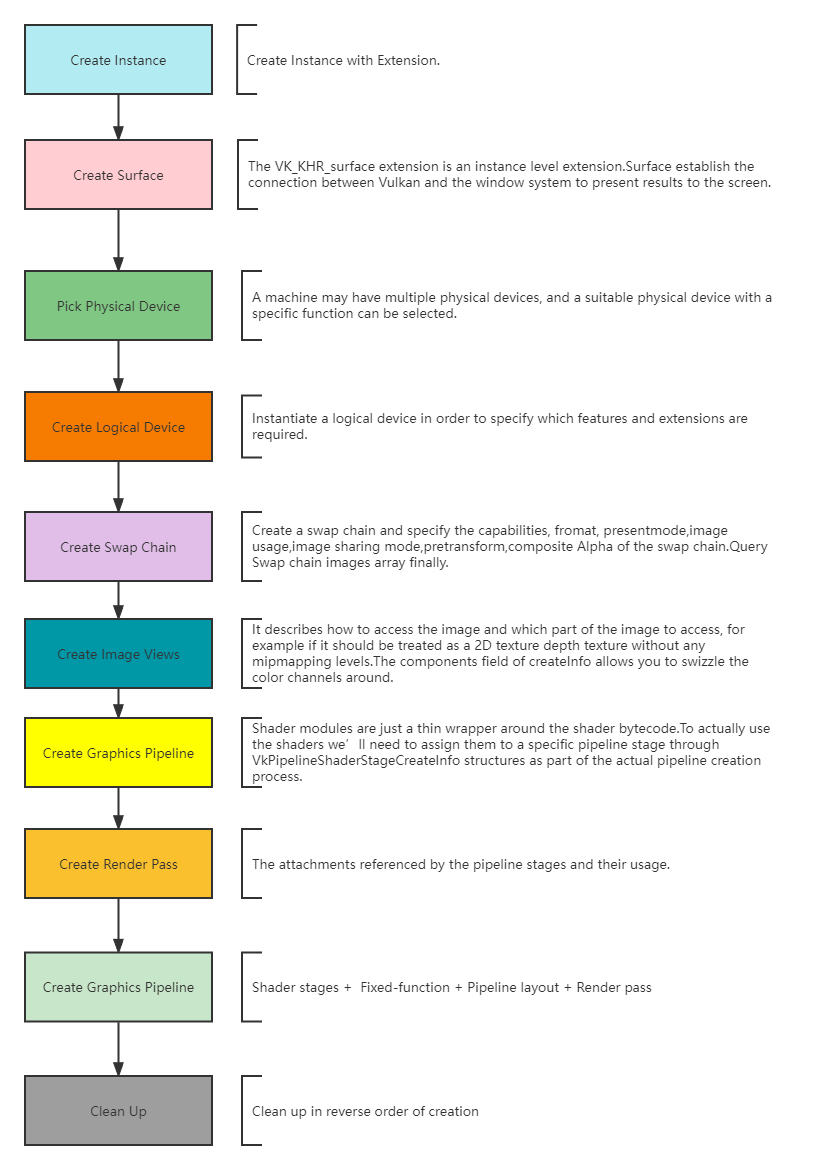
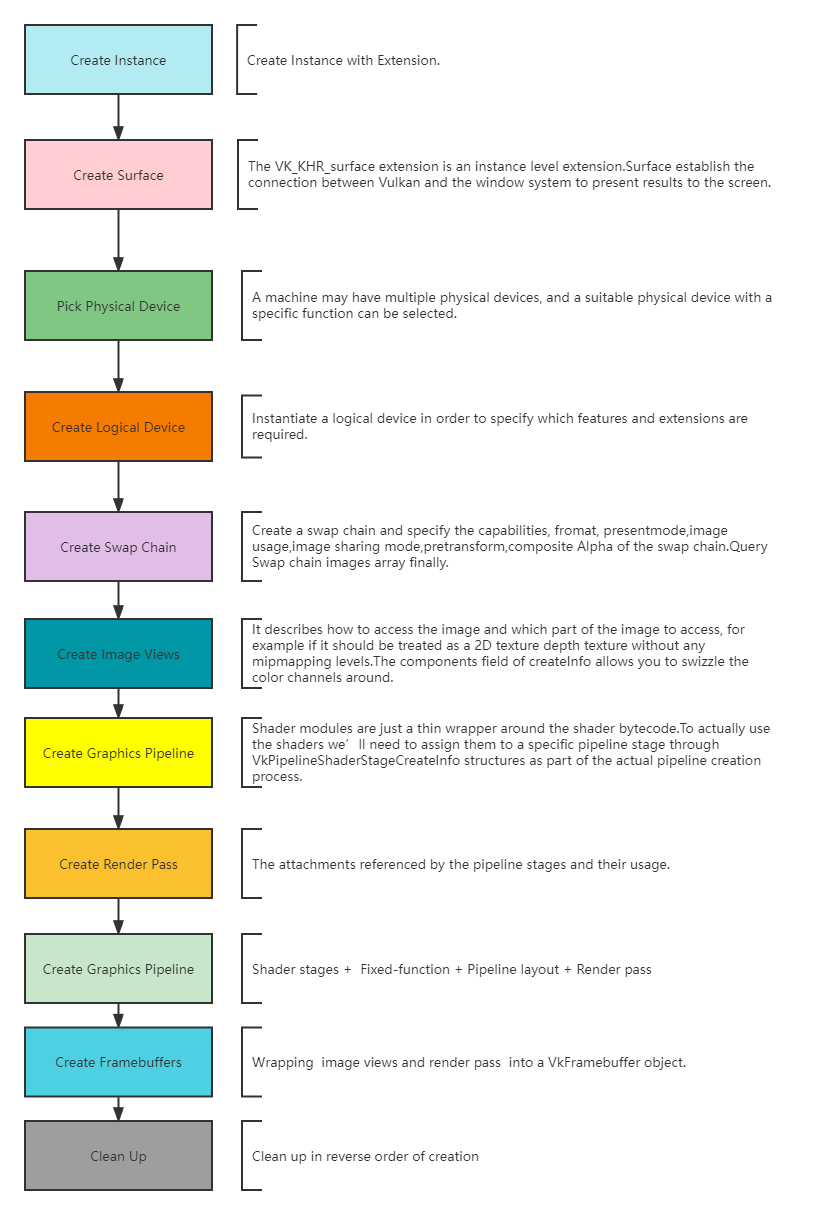
📃 docs: framebuffer

diff --git a/docs/README.md b/docs/README.md
@@ -58,3 +58,8 @@ The uniform and push values referenced by the shader that can be updated at draw
 
 ## Render pass
 The attachments referenced by the pipeline stages and their usage.
+
+## Framebuffers
+The attachments specified during render pass creation are bound by wrapping them into a VkFramebuffer object.
+A framebuffer object references all of the VkImageView objects that represent the attachments.
+The image that we have to use for the attachment depends on which image the swap chain returns when we retrieve one for presentation. **That means that we have to create a framebuffer for all of the images in the swap chain and use the one that corresponds to the retrieved image at drawing time.**
